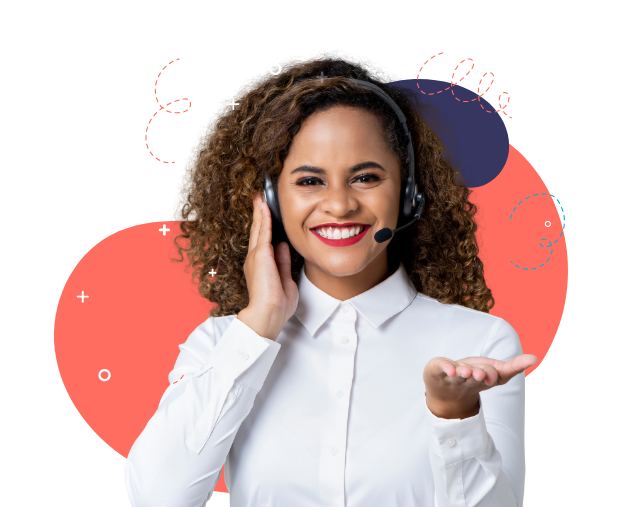
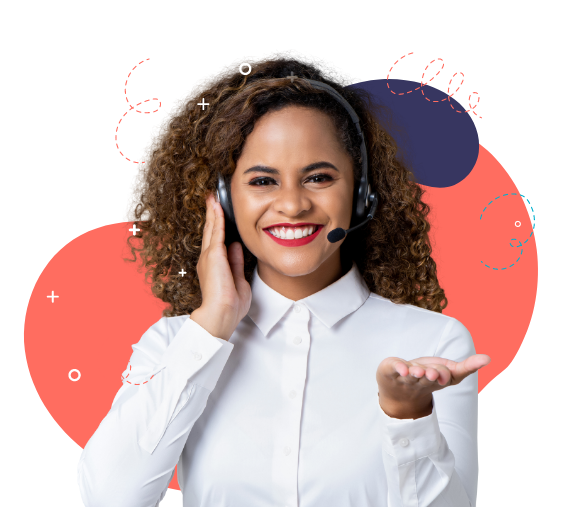
Ajuste
Se ajusta banner para dar uniformidad con los demas componentes del programas

diff --git a/src/components/BannerPrincipal2.vue b/src/components/BannerPrincipal2.vue
@@ -121,9 +121,9 @@ export default {
   &_1
     animation: float1 3.5s ease-in-out infinite alternate
     position: absolute
-    width: 58px
-    top: 10%
-    right: 29%
+    width: 75px
+    top: 11%
+    right: 30%
   &_2
     animation: float1 3.5s ease-in-out infinite alternate
     position: absolute
@@ -133,22 +133,22 @@ export default {
   &_3
     animation: float1 3.5s ease-in-out infinite alternate
     position: absolute
-    width: 90px
-    bottom: 2%
+    width: 100px
+    bottom: 3%
     right: 1%
   &_4
     animation: float1 3.5s ease-in-out infinite alternate
     position: absolute
-    width: 52px
-    bottom: 4%
-    left: 63%
+    width: 80px
+    bottom: 5%
+    left: 60%
     z-index: 99
   &_5
     animation: float1 3.5s ease-in-out infinite alternate
     position: absolute
-    width: 92px
-    top: 44%
-    left: 59%
+    width: 110px
+    top: 40%
+    left: 57%
     z-index: 99
   &_6
     //animation: float1 3.5s ease-in-out infinite alternate
